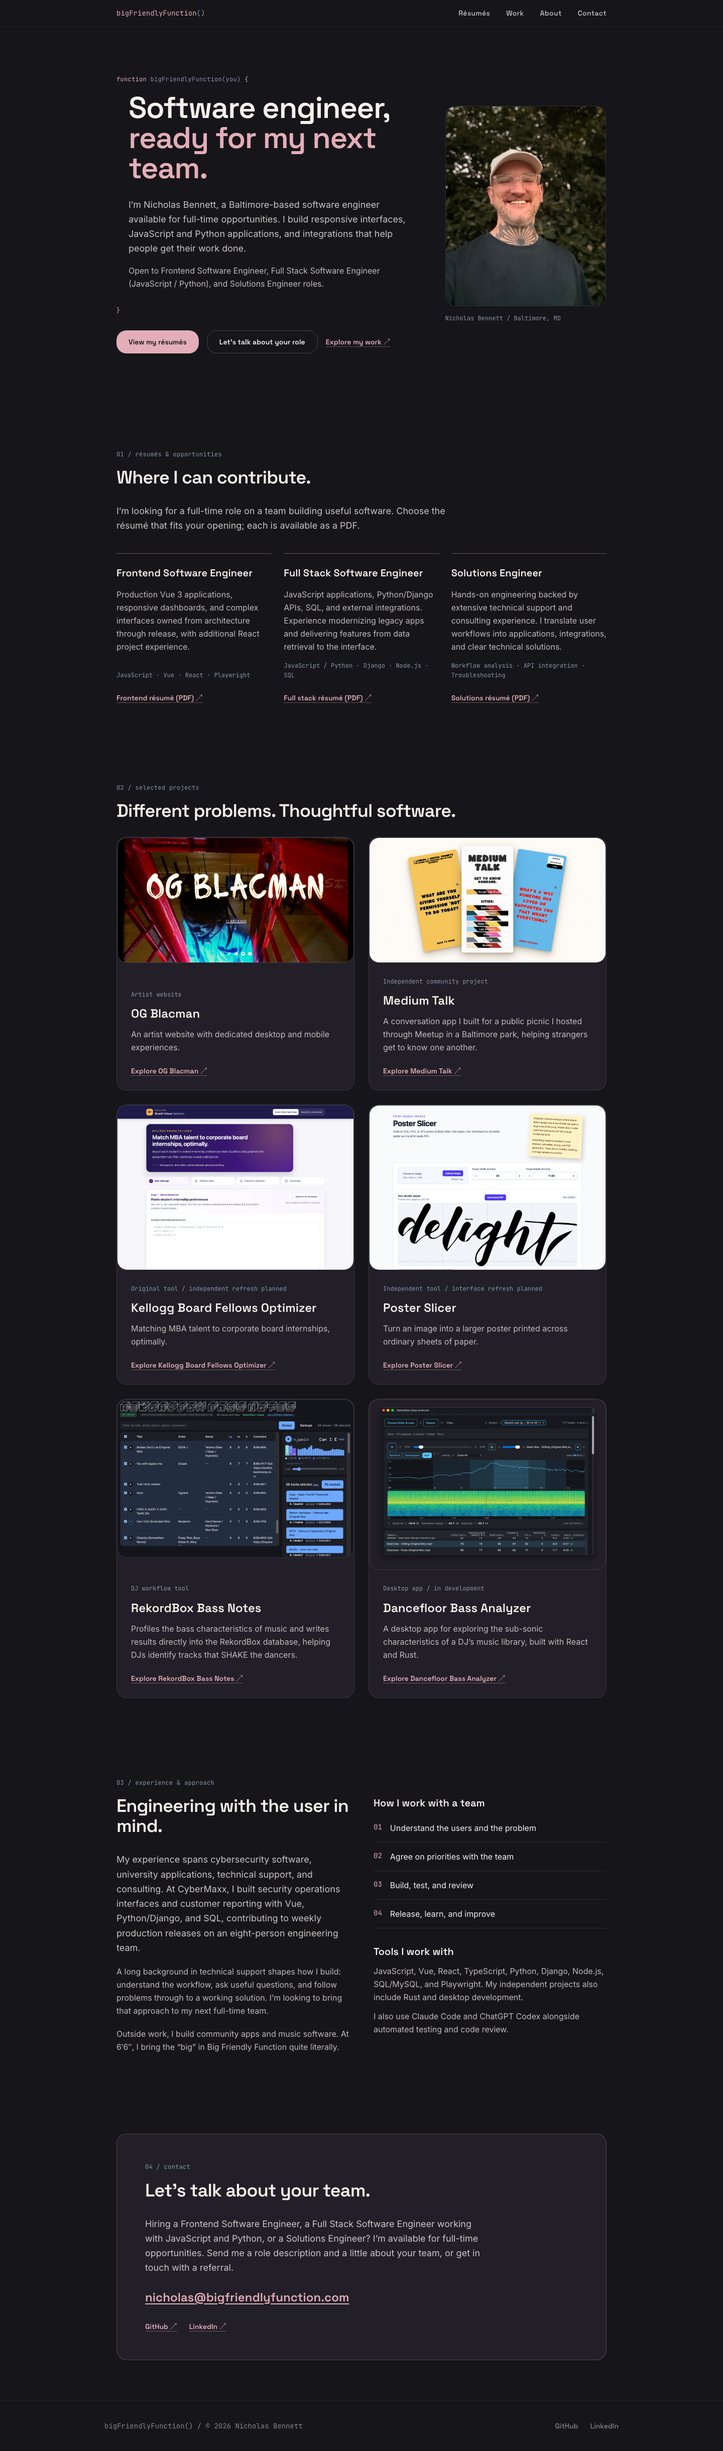
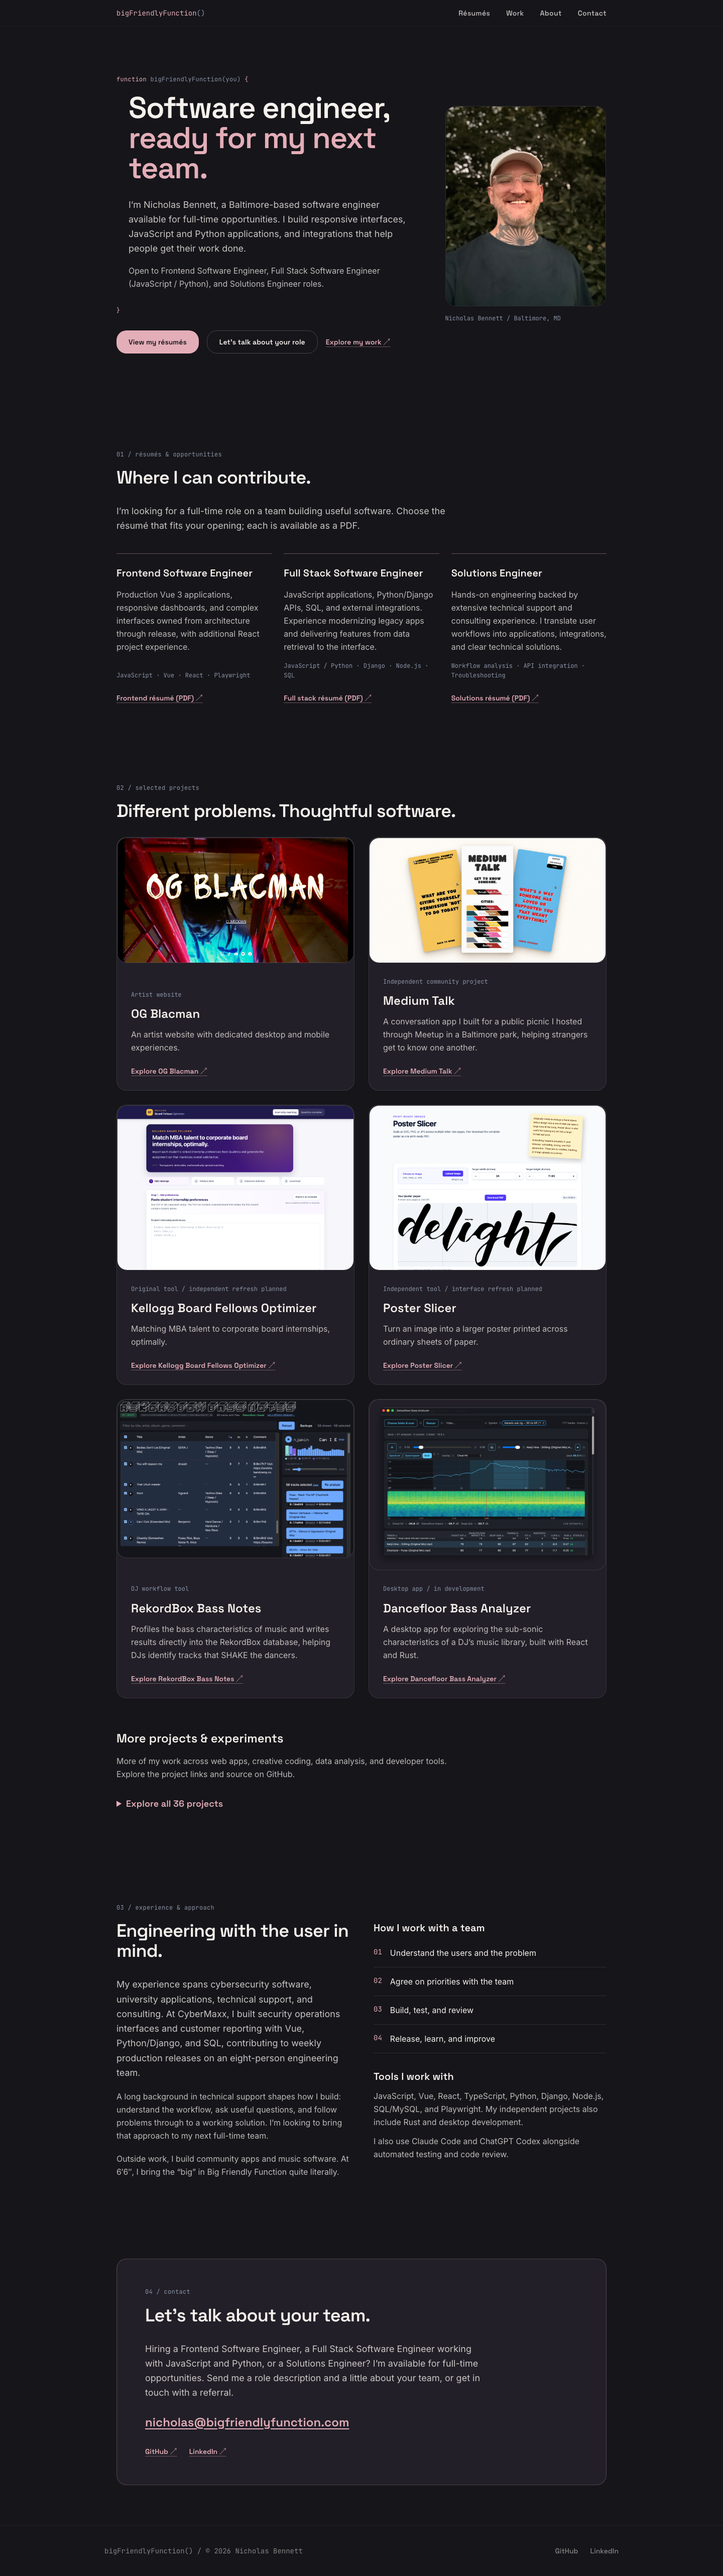
feat: include all GitHub projects with website links

diff --git a/src/components/Portfolio.tsx b/src/components/Portfolio.tsx
@@ -1,4 +1,5 @@
 import { projects } from '../data/projects';
+import linkedProjects from '../data/linked-projects.json';
 import ProjectMedia from './ProjectMedia';
 
 export default function Portfolio() {
@@ -10,5 +11,19 @@ export default function Portfolio() {
         <div className="flex flex-1 flex-col p-6 sm:p-7"><p className="mb-3 font-mono text-xs leading-relaxed text-steel">{project.label}</p><h3 className="font-display text-2xl font-semibold">{project.title}</h3><p className="mb-6 mt-3 flex-1 leading-relaxed text-paper/75">{project.description}</p><a className="text-link self-start" href={`/projects/${project.slug}/`}>Explore {project.title} <span aria-hidden="true">↗</span></a></div>
       </article>
     )}</div>
+    <div className="mt-16">
+      <h3 className="mb-4 font-display text-2xl font-semibold">More projects &amp; experiments</h3>
+      <p className="mb-8 max-w-2xl leading-relaxed text-paper/75">More of my work across web apps, creative coding, data analysis, and developer tools. Explore the project links and source on GitHub.</p>
+      <details>
+      <summary className="mb-6 cursor-pointer font-display text-lg font-semibold text-rose">Explore all {linkedProjects.length} projects</summary>
+      <ul className="grid gap-x-10 md:grid-cols-2">{linkedProjects.map((project) =>
+        <li key={project.source} className="flex flex-col border-t border-white/10 py-6">
+          <h4 className="font-display text-xl font-semibold">{project.title}</h4>
+          <p className="mb-5 mt-3 flex-1 leading-relaxed text-paper/75">{project.description}</p>
+          <div className="flex flex-wrap gap-6"><a href={project.website} className="text-link" aria-label={`${project.linkLabel}: ${project.title}`}>{project.linkLabel} <span aria-hidden="true">↗</span></a><a href={project.source} className="text-link" aria-label={`GitHub source: ${project.title}`}>GitHub <span aria-hidden="true">↗</span></a></div>
+        </li>
+      )}</ul>
+      </details>
+    </div>
   </section>;
 }

diff --git a/scripts/check-site.py b/scripts/check-site.py
@@ -8,6 +8,7 @@ class Page(HTMLParser):
     def __init__(self, path):
         super().__init__()
         self.ids, self.links, self.images, self.headings = set(), [], [], []
+        self.text = []
         self.title, self.description, self.canonical = '', '', ''
         self.in_title = False
         self.anchor_depth = 0
@@ -32,10 +33,12 @@ class Page(HTMLParser):
         if tag == 'a': self.anchor_depth -= 1
         if tag == 'title': self.in_title = False
     def handle_data(self, data):
+        self.text.append(data)
         if self.in_title: self.title += data
 
 root = Path('dist')
 projects = json.loads(Path('src/data/projects.json').read_text())
+linked_projects = json.loads(Path('src/data/linked-projects.json').read_text())
 routes = ['/'] + [f"/projects/{p['slug']}/" for p in projects]
 pages = {route: Page(root / route.lstrip('/') / 'index.html') for route in routes}
 assert len(projects) == 6
@@ -65,6 +68,17 @@ for project in projects:
     assert pages[route].description == project['description']
     assert project['source'] in pages[route].links
     if project['live']: assert project['live'] in pages[route].links
+sources = [project['source'] for project in projects + linked_projects]
+assert len(sources) == len(set(sources)), 'Duplicate project repository'
+homepage_text = ' '.join(pages['/'].text)
+for project in linked_projects:
+    assert project['title'] and project['title'] in homepage_text
+    assert project['description'] and project['description'] in homepage_text
+    assert project['linkLabel'] and project['linkLabel'] in homepage_text
+    for href in (project['source'], project['website']):
+        url = urlsplit(href)
+        assert url.scheme in ('http', 'https') and url.netloc, href
+        assert href in pages['/'].links, f'Missing linked project: {href}'
 assert 'mailto:nicholas@bigfriendlyfunction.com' in pages['/'].links
 assert '/#resumes' in pages['/'].links
 assert 'full-time' in pages['/'].description
@@ -72,4 +86,4 @@ assert {href for href in pages['/'].links if href.endswith('.pdf')} == {
     f'/resumes/nicholas-bennett-{role}.pdf'
     for role in ('frontend-software-engineer', 'full-stack-software-engineer', 'solutions-engineer')
 }
-print('PASS: 7 static routes, 6 gallery links, 3 résumé PDFs, full-time availability metadata, all local anchors, unique titles, descriptions, canonical URLs, heading hierarchy, contact links, images, and no nested links.')
+print(f'PASS: 7 static routes, 6 gallery links, {len(linked_projects)} additional projects with descriptions and website/source links, no duplicate repositories, 3 résumé PDFs, full-time availability metadata, all local anchors, unique titles, descriptions, canonical URLs, heading hierarchy, contact links, images, and no nested links.')

diff --git a/README.md b/README.md
@@ -2,11 +2,11 @@
 
 Nicholas Bennett’s software engineering portfolio for [bigfriendlyfunction.com](https://www.bigfriendlyfunction.com/). Built with Astro 4, React 18, TypeScript, and Tailwind CSS 3.
 
-The homepage highlights availability for full-time Frontend Software Engineer, Full Stack Software Engineer (JavaScript / Python), and Solutions Engineer roles. It follows hero → three role-specific PDF résumés → selected projects → experience/approach → contact, with a real portrait, charcoal and rose styling, and a restrained function motif. Contact is a working email link, with GitHub and LinkedIn profiles.
+The homepage highlights availability for full-time Frontend Software Engineer, Full Stack Software Engineer (JavaScript / Python), and Solutions Engineer roles. It follows hero → three role-specific PDF résumés → selected projects and more experiments → experience/approach → contact, with a real portrait, charcoal and rose styling, and a restrained function motif. Contact is a working email link, with GitHub and LinkedIn profiles.
 
 ## Site preview
 
-[![Big Friendly Function homepage showing full-time availability, portrait, three résumés, six projects, experience, and contact](docs/images/homepage.png)](docs/images/homepage.png)
+[![Big Friendly Function homepage showing full-time availability, three résumés, selected projects, more experiments, experience, and contact](docs/images/homepage.png)](docs/images/homepage.png)
 
 Captured from the local production build with Playwright Chromium at 1440 × 1000, using a full-page screenshot. Regenerate with `npm run screenshot`; the image is a real rendering of the site, including its intentional project-media placeholders.
 
@@ -46,6 +46,7 @@ Astro renders the homepage and six project pages as static HTML. Only the respon
 | `src/pages/index.astro` | Homepage section order. |
 | `src/components/` | Header, hero, résumés, project gallery, experience/approach, contact, footer, and shared media presentation. |
 | `src/data/projects.json` | Structured project copy, links, status, decisions, delivered work, plans, media, and content TODOs. |
+| `src/data/linked-projects.json` | Additional repositories with project websites, short sourced descriptions, and GitHub links. |
 | `src/data/projects.ts` | Media validation: absent local images fall back to a deliberate placeholder. |
 | `src/pages/projects/[slug].astro` | Shared project-page template and static route generation. |
 | `src/layouts/BaseLayout.astro` | Document titles, descriptions, canonical URLs, Open Graph metadata, and skip link. |
@@ -65,6 +66,12 @@ Project routes:
 - `/projects/dancefloor-bass-analyzer/`
 
 Each route builds to its own `index.html`, supporting direct loads and refreshes on static hosting. The gallery and project pages use the same content. Live-site actions appear only for projects with supplied live URLs; source links are separate. Planned Kellogg and Poster Slicer refinements remain distinct from delivered work, and Dancefloor Bass Analyzer is labeled in development.
+
+### Additional GitHub projects
+
+The homepage also lists 36 additional projects from [nrrb’s public repositories](https://github.com/nrrb?tab=repositories), in a native expandable list below selected work. The October 29, 2026 snapshot covered all 63 public repositories and included every repository with a nonempty GitHub website field, excluding the five already represented in selected work. Descriptions come from repository descriptions or READMEs, with the linked websites used when those sources contain no useful summary. Documentation, article, and npm links are labeled accordingly. The listed Ghost Bass Visualizer Replit URL returned 404 during the check and is marked unavailable; npm blocked automated requests with 403.
+
+Edit `src/data/linked-projects.json` to maintain these entries. This is a static content snapshot; the site does not call GitHub at runtime.
 
 ### Adding project media
 
